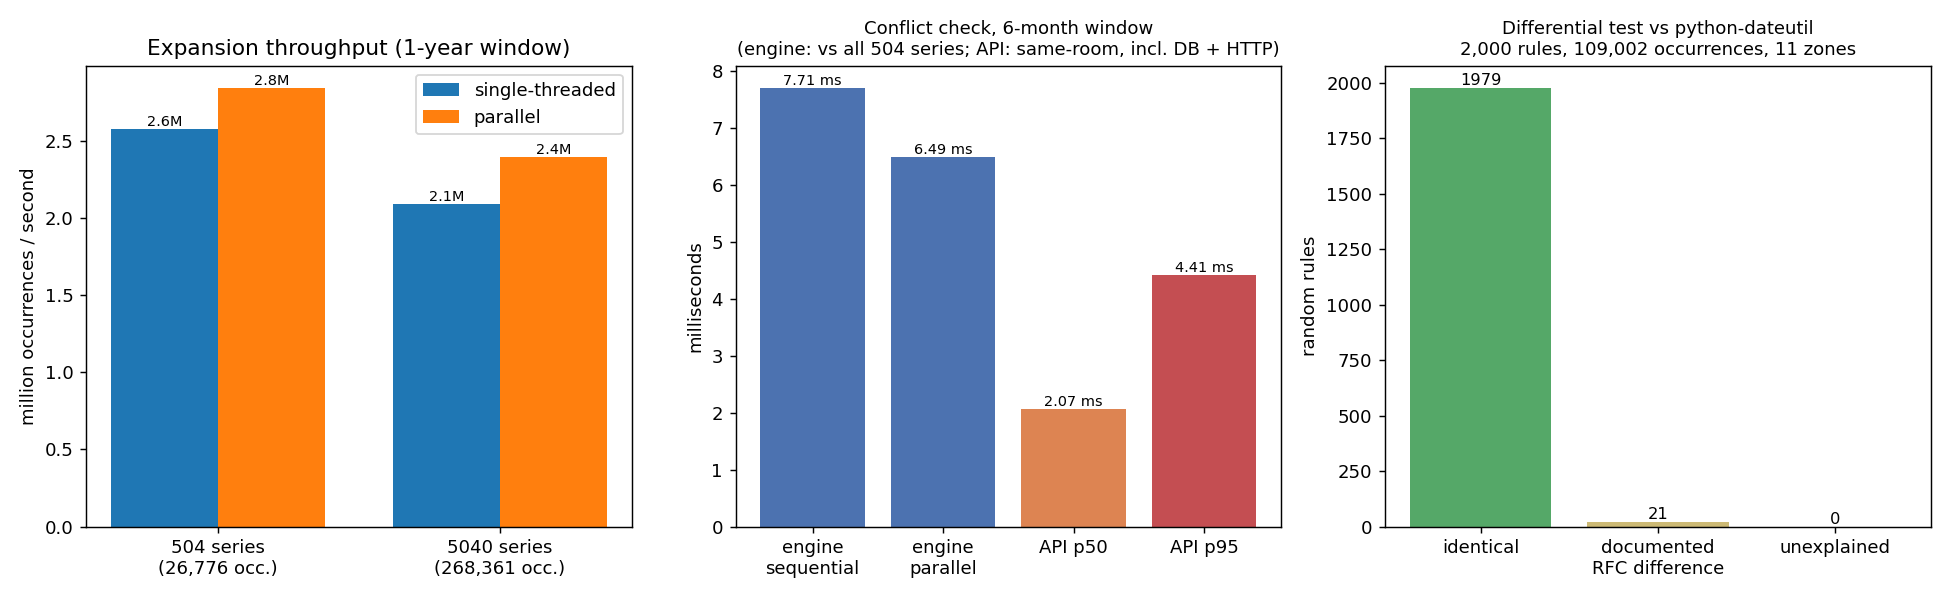
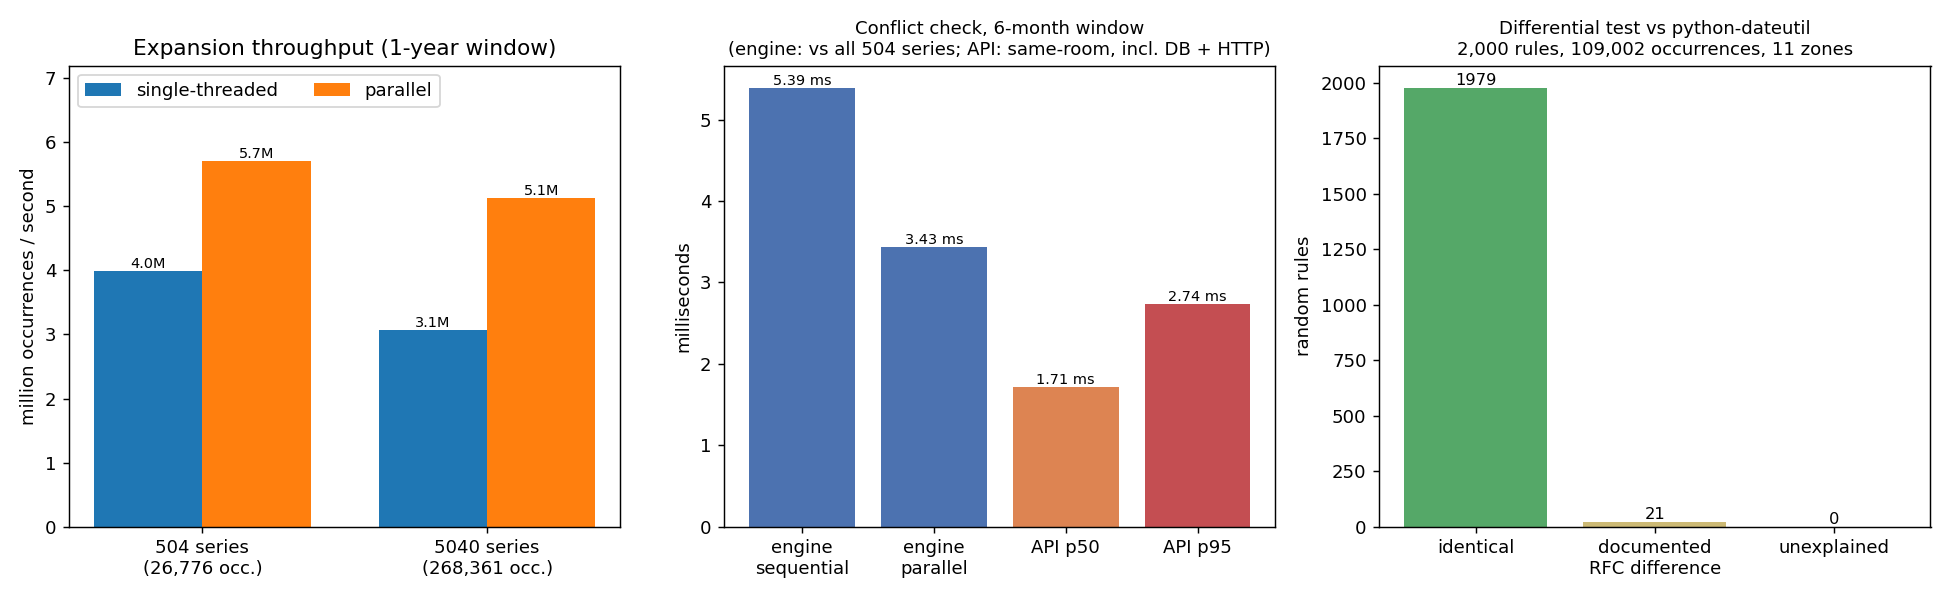
Re-record benchmarks and latency after parallel expansion speed-up

diff --git a/scripts/plot_results.py b/scripts/plot_results.py
@@ -45,7 +45,8 @@ def main():
     ax.set_xticks(range(len(groups)), [f"{g} series\n({counts[g]:,} occ.)" for g in groups])
     ax.set_ylabel("million occurrences / second")
     ax.set_title("Expansion throughput (1-year window)")
-    ax.legend()
+    ax.set_ylim(0, ax.get_ylim()[1] * 1.2)
+    ax.legend(loc="upper left", ncol=2)
 
     ax = axes[1]
     labels, vals = [], []

diff --git a/bench/results/ExpansionBenchmarks-report.md b/bench/results/ExpansionBenchmarks-report.md
@@ -10,10 +10,10 @@ Job=ShortRun  IterationCount=3  LaunchCount=1
 WarmupCount=3  
 
 ```
-| Method         | Series | Mean       | Error      | StdDev    | Ratio | RatioSD | Gen0      | Gen1      | Gen2      | Allocated | Alloc Ratio |
-|--------------- |------- |-----------:|-----------:|----------:|------:|--------:|----------:|----------:|----------:|----------:|------------:|
-| **SingleThreaded** | **504**    |  **10.398 ms** |  **1.5812 ms** | **0.0867 ms** |  **1.00** |    **0.01** |  **609.3750** |  **484.3750** |  **484.3750** |   **3.44 MB** |        **1.00** |
-| Parallel       | 504    |   9.411 ms |  0.4922 ms | 0.0270 ms |  0.91 |    0.01 |  593.7500 |  578.1250 |  343.7500 |   4.52 MB |        1.31 |
-|                |        |            |            |           |       |         |           |           |           |           |             |
-| **SingleThreaded** | **5040**   | **128.257 ms** | **48.3333 ms** | **2.6493 ms** |  **1.00** |    **0.03** | **2500.0000** | **1500.0000** | **1500.0000** |  **46.35 MB** |        **1.00** |
-| Parallel       | 5040   | 111.922 ms | 43.4882 ms | 2.3837 ms |  0.87 |    0.02 | 2600.0000 | 1600.0000 | 1400.0000 |  46.56 MB |        1.00 |
+| Method         | Series | Mean      | Error     | StdDev    | Ratio | RatioSD | Gen0      | Gen1      | Gen2      | Allocated | Alloc Ratio |
+|--------------- |------- |----------:|----------:|----------:|------:|--------:|----------:|----------:|----------:|----------:|------------:|
+| **SingleThreaded** | **504**    |  **6.700 ms** |  **2.972 ms** | **0.1629 ms** |  **1.00** |    **0.03** | **1078.1250** | **1015.6250** | **1015.6250** |   **5.61 MB** |        **1.00** |
+| Parallel       | 504    |  4.688 ms |  2.679 ms | 0.1468 ms |  0.70 |    0.02 | 1015.6250 |  960.9375 |  757.8125 |      6 MB |        1.07 |
+|                |        |           |           |           |       |         |           |           |           |           |             |
+| **SingleThreaded** | **5040**   | **87.437 ms** | **73.463 ms** | **4.0267 ms** |  **1.00** |    **0.06** | **1666.6667** | **1333.3333** | **1333.3333** |  **74.14 MB** |        **1.00** |
+| Parallel       | 5040   | 52.338 ms | 43.956 ms | 2.4094 ms |  0.60 |    0.03 | 2090.9091 | 1727.2727 | 1454.5455 |  62.17 MB |        0.84 |

diff --git a/bench/results/ConflictBenchmarks-report.md b/bench/results/ConflictBenchmarks-report.md
@@ -12,5 +12,5 @@ WarmupCount=3
 ```
 | Method              | Mean     | Error     | StdDev    | Gen0     | Gen1    | Allocated |
 |-------------------- |---------:|----------:|----------:|---------:|--------:|----------:|
-| AllSeriesSequential | 7.707 ms |  1.963 ms | 0.1076 ms | 226.5625 | 54.6875 |   2.74 MB |
-| AllSeriesParallel   | 6.491 ms | 17.898 ms | 0.9810 ms | 226.5625 | 70.3125 |   2.75 MB |
+| AllSeriesSequential | 5.393 ms | 0.9813 ms | 0.0538 ms |  93.7500 | 15.6250 |   1.21 MB |
+| AllSeriesParallel   | 3.431 ms | 2.6284 ms | 0.1441 ms | 101.5625 | 27.3438 |   1.22 MB |
